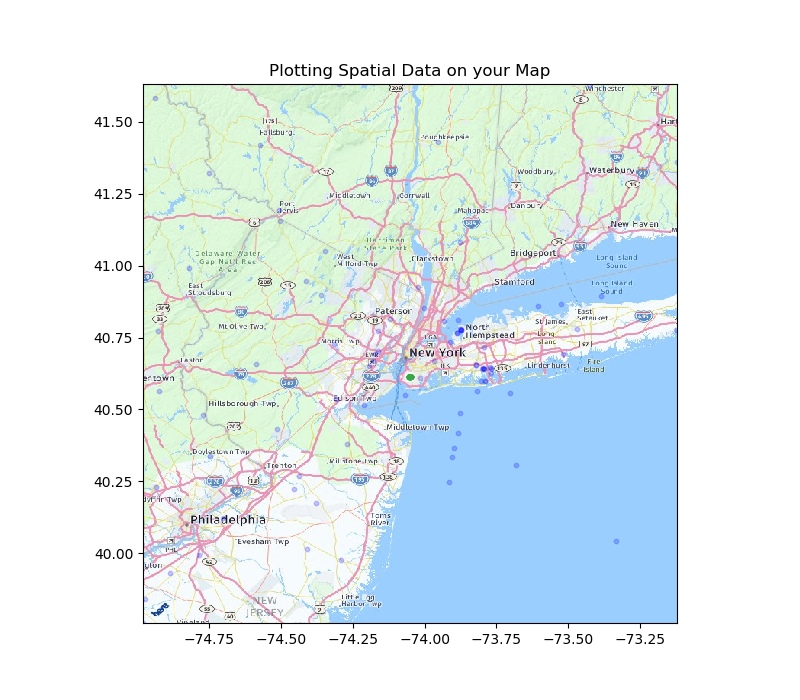
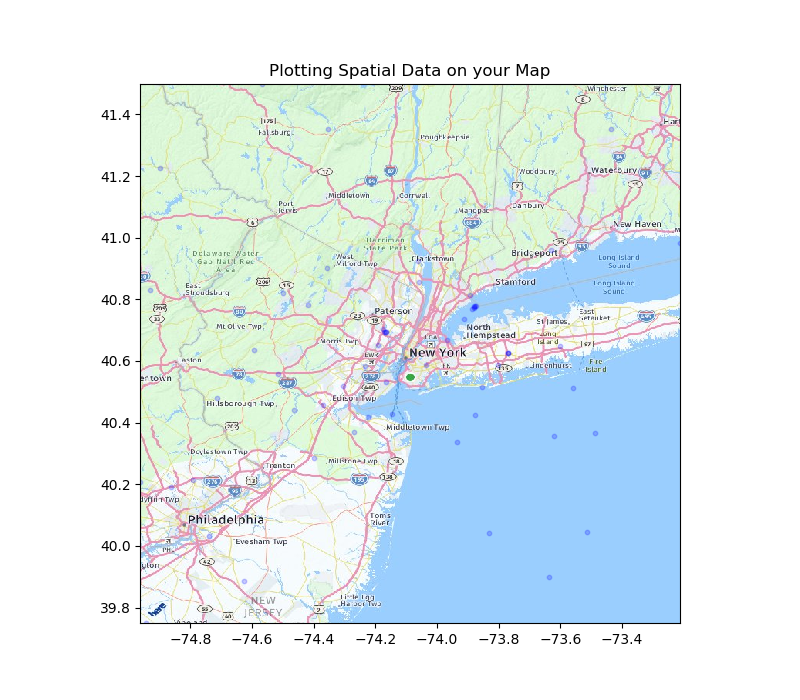
map dynamic bounds for iploc and customloc

diff --git a/templates/results.html b/templates/results.html
@@ -46,7 +46,7 @@
     <script type="text/javascript">
       function initMap() {
         var locations = {{ latlngArr }};
-
+        var bounds = new google.maps.LatLngBounds();
         var map = new google.maps.Map(document.getElementById("map"), {
           zoom: 8,
           center: new google.maps.LatLng({{ myLat }}, {{ myLong }}),
@@ -62,6 +62,8 @@
             map: map
           });
 
+          var myLatLng = new google.maps.LatLng(locations[i][0], locations[i][1]);
+
           google.maps.event.addListener(
             marker,
             "click",
@@ -72,7 +74,9 @@
               };
             })(marker, i)
           );
+          bounds.extend(myLatLng);
         }
+        map.fitBounds(bounds);
       }
     </script>
   </body>

diff --git a/templates/pickerresults.html b/templates/pickerresults.html
@@ -4,7 +4,6 @@
    * element that contains the map. */
   #map {
     height: 100%;
-    margin-top: 10%
   }
   /* Optional: Makes the sample page fill the window. */
   html,
